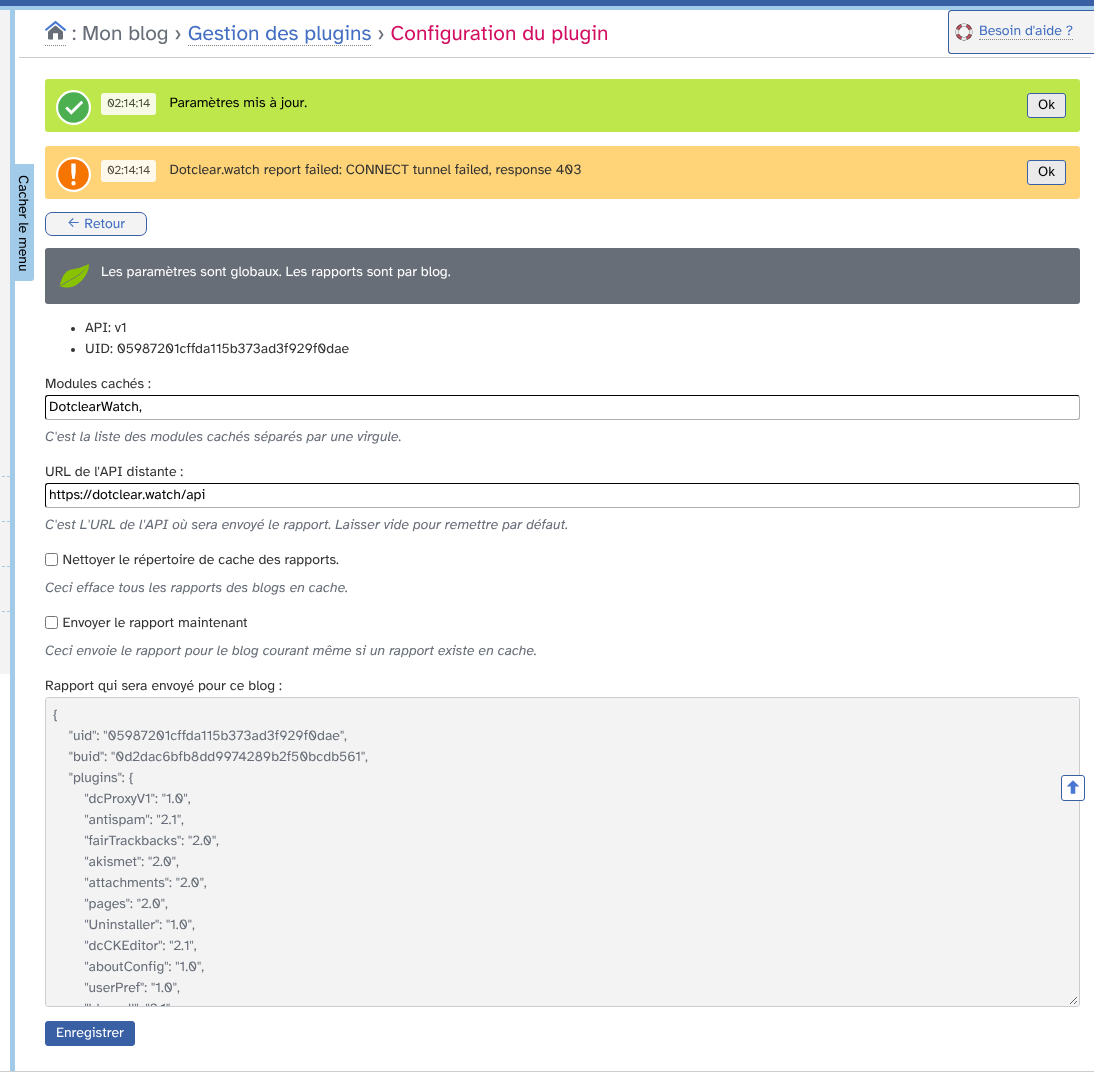
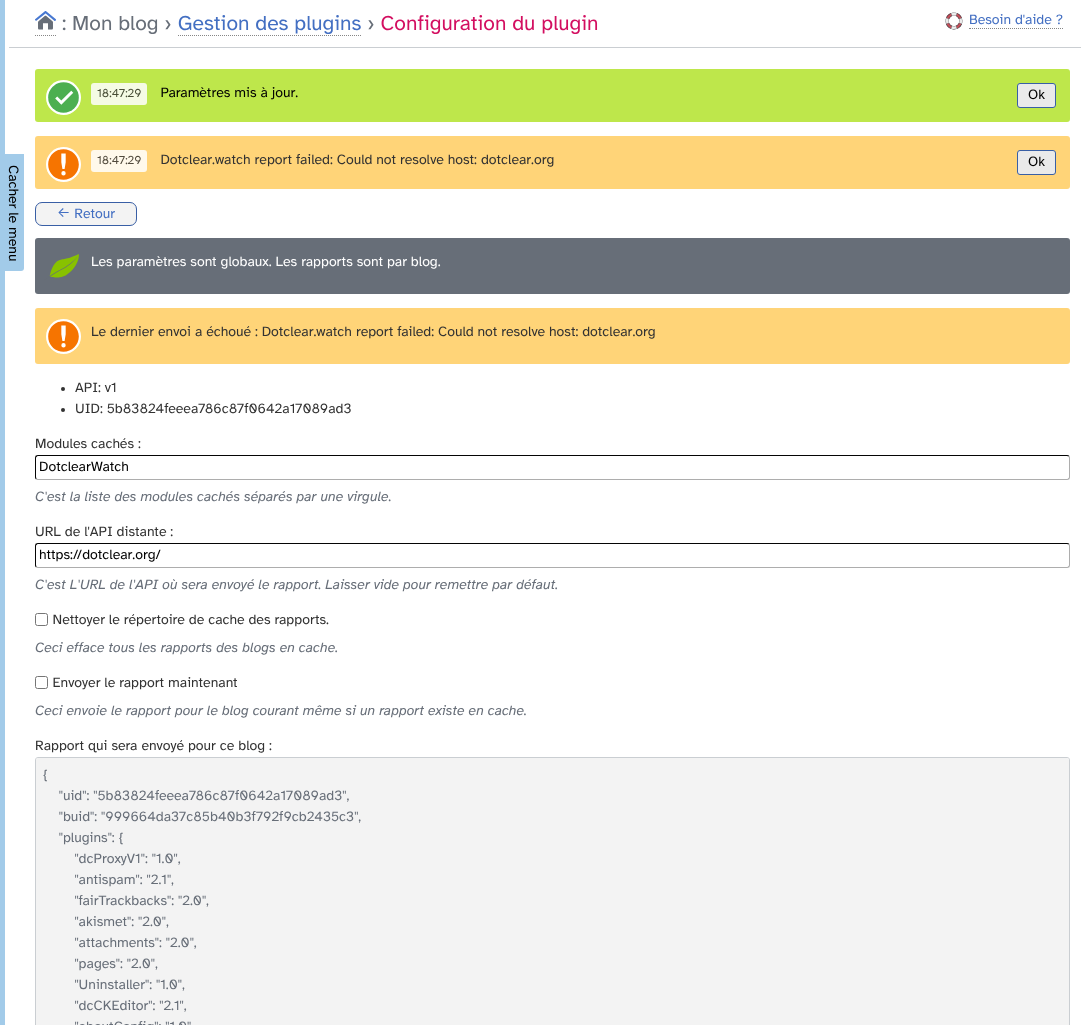
[docs] Update guide and screenshots for the server dotclear.org

Changed region(s): [[0.0, 0.0, 1.0, 1.0], [0.9742, 0.718, 1.0, 0.7493], [0.4566, 0.6868, 0.4871, 0.718]]

diff --git a/docs/fr/utilisation.md b/docs/fr/utilisation.md
@@ -1,6 +1,6 @@
 # Dotclear Watch : guide d'utilisation
 
-Dotclear Watch envoie régulièrement un petit rapport anonyme sur votre installation de Dotclear à un serveur de statistiques. Le serveur par défaut est [stat.dotclear.watch](https://stat.dotclear.watch). Cela permet de savoir quelles versions de Dotclear, de PHP et quels plugins sont utilisés.
+Dotclear Watch envoie régulièrement un petit rapport anonyme sur votre installation de Dotclear à un serveur de statistiques. Le serveur par défaut est celui du site officiel, avec ses [statistiques](https://dotclear.org/statistics). Cela permet de savoir quelles versions de Dotclear, de PHP et quels plugins sont utilisés.
 
 Ce plugin n'a pas de page d'administration. Il se règle dans sa page de configuration, dans le gestionnaire de plugins.
 
@@ -58,7 +58,7 @@ L'identifiant d'un module est celui qui est affiché entre parenthèses dans le 
 
 ## Changer le serveur
 
-**URL de l'API distante** contient l'adresse du serveur qui reçoit les rapports. Par défaut : `https://dotclear.watch/api`. Vous pouvez la remplacer par un serveur à vous. Laissez le champ vide puis enregistrez pour revenir à l'adresse par défaut.
+**URL de l'API distante** contient l'adresse du serveur qui reçoit les rapports. Par défaut : `https://dotclear.org/`. Vous pouvez la remplacer par un serveur à vous. Depuis la version 1.7, l'ancienne adresse par défaut (`https://dotclear.watch/api`) est remplacée automatiquement à la mise à jour ; une adresse personnalisée est conservée. Laissez le champ vide puis enregistrez pour revenir à l'adresse par défaut.
 
 ## Voir le rapport
 

diff --git a/README.md b/README.md
@@ -15,7 +15,7 @@ _dotclear watch_  is a plugin for the open-source web publishing software called
 A [user guide in French](https://github.com/JcDenis/DotclearWatch/blob/master/docs/fr/utilisation.md) is available.
 
 It tracks Dotclear's installation to get stats about it.
-Default statistics server is located at https://stat.dotclear.watch
+Default statistics server is located at https://dotclear.org/statistics
 
 What's being track :
 * Dotclear version,
